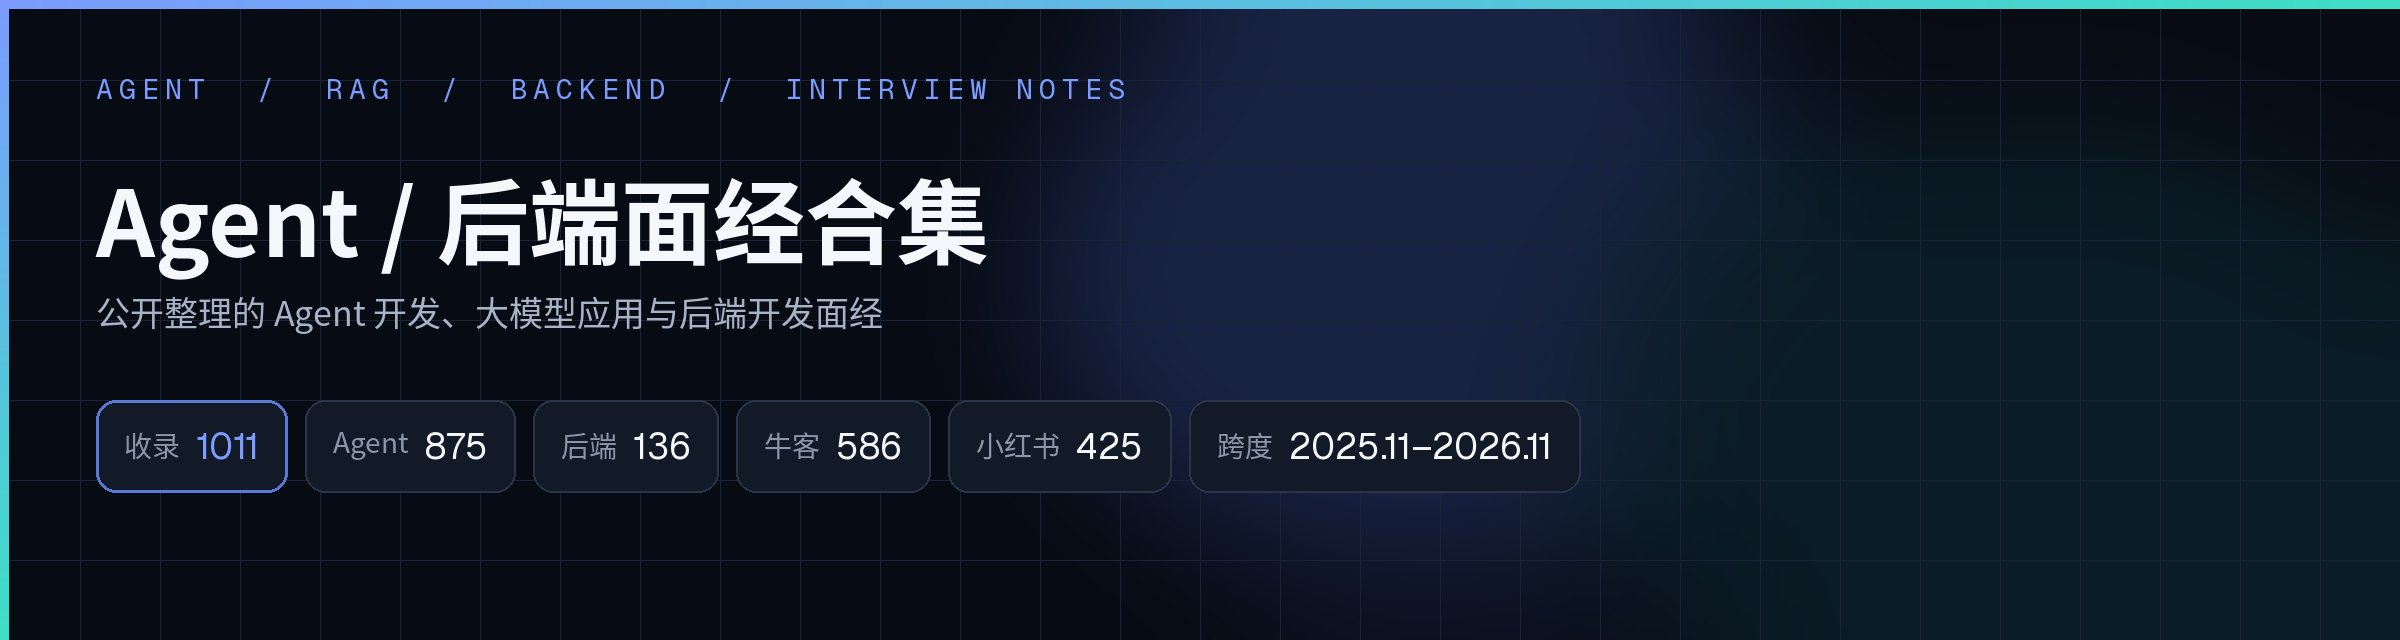
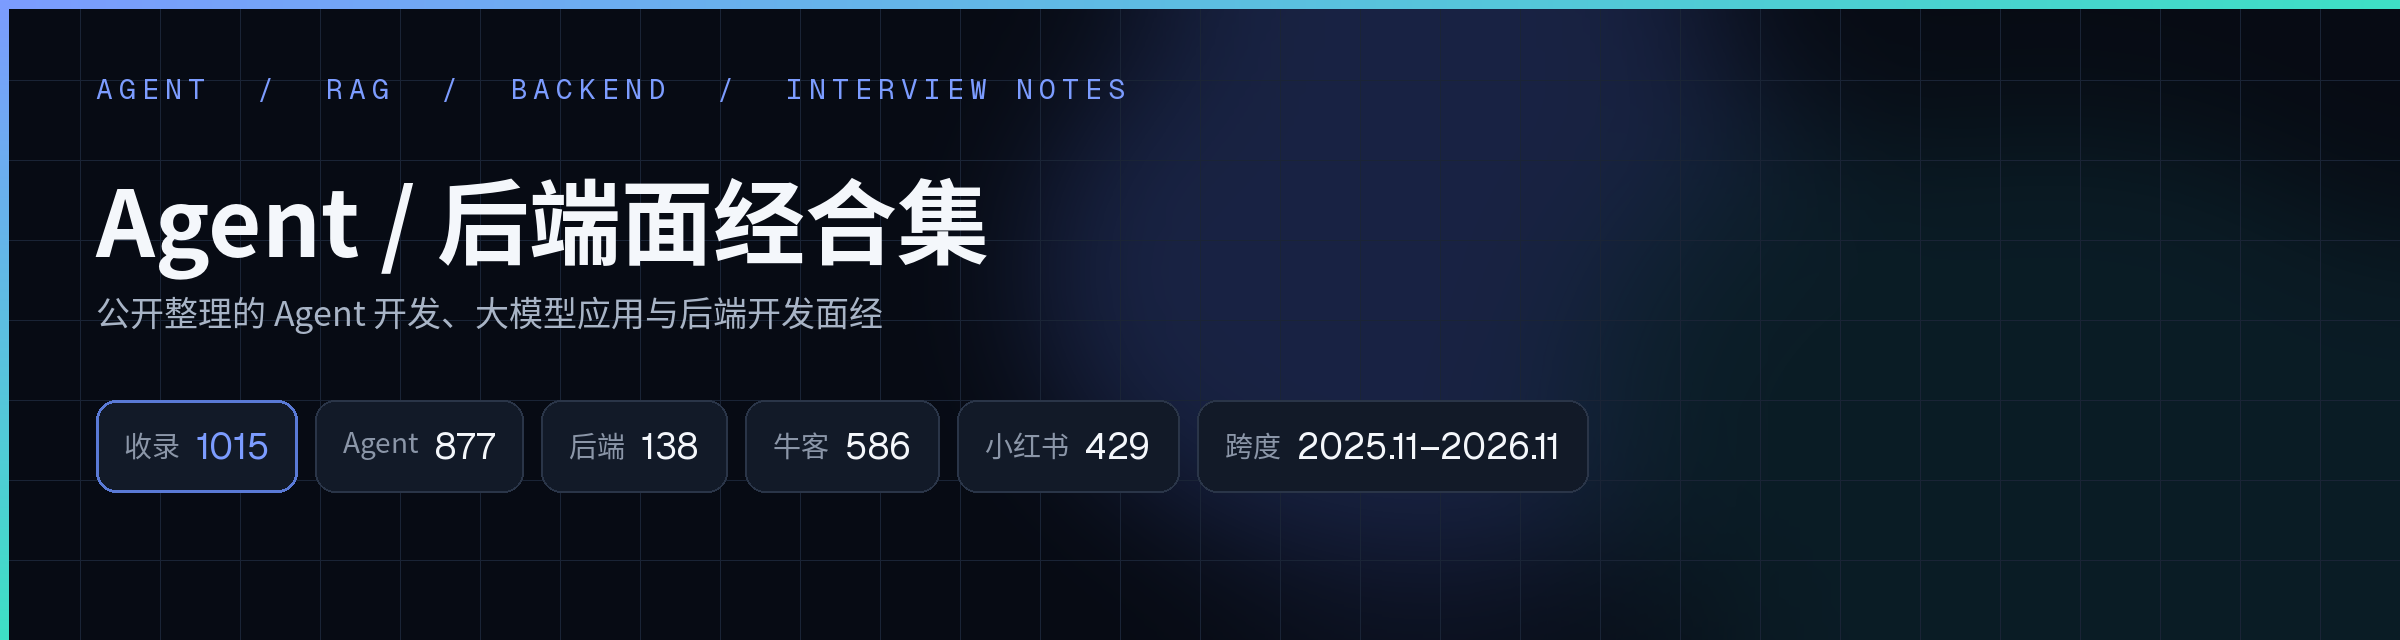
add 4 Xiaohongshu 面经 from follow-up of already collected authors (window 2026-11-13 to 2026-11-25)
布丁不丁 字节后端日常实习一面、初创AI公司后端业务开发实习；小小眠羊 上汽智能座舱 AI应用开发；aevon 上海某初创 Agent开发技术面（局部）。

Changed region(s): [[0.0938, 0.625, 0.6562, 0.75]]

diff --git a/agent/2026-11-19-上海某初创-Agent开发-技术面.md b/agent/2026-11-19-上海某初创-Agent开发-技术面.md
@@ -1,0 +1,61 @@
+# 上海某初创 Agent开发技术面（局部）
+
+> 上海某初创 · Agent开发 · 招聘类型未注明 · 技术面 · 结果未注明 · 详情页显示「6天前」，报告按当天 2026-11-25 换算为 2026-11-19，这是相对日期换算，不是详情页上的月日原发日期，也不是面试日期；记为 2026-11-19，落在本次回访窗口 2026-11-13 至 2026-11-25（用户要求把已收录作者整理到当日） · 作者 aevon · 来源：[小红书](https://www.xiaohongshu.com/explore/6afdd112000000002b03b4d6)
+
+原帖标题按搜集报告为上海某初创 agent 开发技术面。公司按标题记为上海某初创，不改成具名公司，也不与仓库中其他「上海某初创」或同作者天津某初创篇合并。岗位按报告记为 Agent 开发，招聘类型未注明，轮次按标题记为技术面，不编造一面或二面。发帖日按页面「6天前」、报告当天 2026-11-25 换算为 2026-11-19，已如实标明是换算结果。结果未见，不猜测。题目在 3 张图里，第 2 张加载为空白未读到，缺第 11 到第 14 题及第 22 题之后，按局部收录。
+
+## 速览
+
+- **重点**：上海某初创 Agent 开发技术面。下面只整理搜集报告里已经可见的题意摘要，不是逐字原文，也不补答案。可见开场与简历核对：自我介绍、简历作品、最近项目、Agent 工作台动机（截断）、对 Claude Code 和 Codex 框架的了解、记忆系统、Claude 订阅或接口、使用环境和搭法，以及支付、网络、电脑环境（截断）。另可见第 15 到第 22 题：三个 Skill 分别是什么、Skill 架构和文件夹里有什么、四块怎么设计、第一份 Skill 的名字与目录组织、SKILL.md 和工作流，以及这套工作台相对直接使用 Codex / Claude Code 的产品价值（截断）。第 11 到第 14 题和第 22 题之后未见。本篇为局部。不与同作者天津某初创篇合并。
+- **难度**：上海某初创 Agent 开发技术面。发帖日期依据：详情页显示「6天前」，报告按当天 2026-11-25 换算为 2026-11-19，这是相对日期换算，不是详情页上的月日原发日期。本篇为局部：第 2 张图空白未读，缺第 11 到第 14 题及第 22 题之后。
+- **题量**：仅按报告可见摘要整理，不把未见细节补成题目，也不声称全题已核。本篇为局部。
+
+## 面经正文
+
+以下只整理搜集报告中已经看到的题意，不是逐字原文，也不补答案。缺题和截断后的内容不补。本篇为局部。
+
+### 技术面
+
+题目在 3 张图里，按局部收录：第 2 张图加载为空白，未读到；第 1 张为封面；第 3 张只读到第 15 到第 22 题；另一张读到第 1 到第 10 题。第 11 到第 14 题以及第 22 题之后缺失。第 4 题和第 10 题、第 22 题在截断处结束。下面只整理已列出的题意，不把缺题和截断后的内容补出来，也不补答案。报告未写明是第几面，按标题记为技术面。
+
+简单做下自我介绍。
+
+可以看一下你简历里的作品吗。
+
+你最近最新在开发的项目是哪一个。
+
+你做这个 Agent 工作台，是自己想做还是？报告写到此处截断，这里不补。报告未还原项目全称，也不补。
+
+你对 Claude Code、Codex 它们本身的框架了解多少。
+
+你说的记忆系统，是指 Claude 它自己原生的那个记忆吗。
+
+你现在用 Claude 是走订阅，还是自己接的接口。
+
+你是怎么搞定这个 Claude（使用环境）的。
+
+那你现在在这套方案是怎么搭的？完整讲一讲。
+
+分三块讲：支付怎么解决的、网络环境怎么解决的、电脑本身环境（时区、封环境…报告写到此处截断。第 11 到第 14 题缺失，这里不补。
+
+这三个 Skill 分别是什么？完整说一说。报告序号此处为第 15 题。
+
+一个完整的 Skill，它的架构大概是怎样的。
+
+不是说职责描述，是代码层面的实质：这个文件夹里面有哪几种东西。
+
+面试官讲解 Skill 四模块后追问：你这三个 Skill 的这四块东西分别是怎么设计的。报告未展开面试官所讲四模块的原文，这里不补。
+
+你刚才说有三份 Skill——第一份叫什么名字？架构大概是怎样的。
+
+这第一个 Skill，它的文件夹你是怎么组织架构的。
+
+SKILL.md 是单独一个文件吗？参考资料、脚本、素材库这些模块，你的工作流打算怎么组织。
+
+你这个工作台，和我直接用 Codex / Claude Code 配上你这几个 Skill 相比，产品价值差异在哪里？怎么证明你做的这个应用…报告写到此处截断，第 22 题之后未见，这里不补。
+
+以上只保留报告已列出的题意，不补第 11 到第 14 题，也不补被截断的后续。已读材料未见最终录用或淘汰结论，结果未注明。
+
+---
+
+收录于 2026-11-25 · 本文为依据搜集报告可见摘要的整理，非正式原文转载。版权归原作者所有，如有侵权请提 Issue 删除。

diff --git a/backend/2026-11-24-字节跳动-后端开发-日常实习-一面.md b/backend/2026-11-24-字节跳动-后端开发-日常实习-一面.md
@@ -1,0 +1,63 @@
+# 字节跳动后端开发日常实习一面
+
+> 字节跳动 · 后端开发（按报告记为后端日常实习；题目含 Agent 项目，不把岗位改成 Agent） · 日常实习 · 一面 · 结果未注明 · 详情页显示「昨天 20:00 浙江」，报告按当天 2026-11-25 换算为 2026-11-24，这是相对日期换算，不是详情页上的月日原发日期，也不是面试日期；记为 2026-11-24，落在本次回访窗口 2026-11-13 至 2026-11-25（用户要求把已收录作者整理到当日）。正文写面试日 2026.11.23，按作者所写记录，不把面试日当成发帖日 · 作者 布丁不丁 · 来源：[小红书](https://www.xiaohongshu.com/explore/6b057c4b0000000026026ce5)
+
+原帖标题按搜集报告为字节跳动后端日常实习一面。岗位按报告记为后端日常实习。题目含 Agent 项目，不把岗位改成 Agent。发帖日按页面「昨天 20:00 浙江」、报告当天 2026-11-25 换算为 2026-11-24，已如实标明是换算结果。正文写面试日 2026.11.23，按作者所写记录。结果未见，不猜测。同作者本批另有初创 AI 公司篇，为不同原帖，不合并。
+
+## 速览
+
+- **重点**：字节跳动后端开发日常实习一面。岗位按报告记为后端。下面只整理搜集报告里已经可见的题意摘要，不是逐字原文，也不补答案。题目可见 Agent 项目、Harness、Skill、上下文，以及 MySQL、MVCC、HashMap、ConcurrentHashMap、JVM 垃圾回收、锁、TCP、进程线程，还有手撕编辑距离和反问。题目涉及 Agent，不把岗位改成 Agent。本帖只见一面这一场，不拆文件，不与同作者或其他字节篇合并。
+- **难度**：字节跳动后端开发日常实习一面。发帖日期依据：详情页显示「昨天 20:00 浙江」，报告按当天 2026-11-25 换算为 2026-11-24，这是相对日期换算，不是详情页上的月日原发日期。正文写面试日 2026.11.23，按作者所写记录。
+- **题量**：仅按报告可见摘要整理，不把未见细节补成题目，也不声称全题已核。
+
+## 面经正文
+
+以下只整理搜集报告中已经看到的题意，不是逐字原文，也不补答案或手撕解法。
+
+### 一面
+
+正文写面试日期为 2026.11.23，这是作者写明的面试日，不是发帖日。已读材料未见录用或淘汰结论。下面只整理已列出的题意，不补答案，也不补手撕解法。
+
+自我介绍。
+
+实习。报告未展开具体追问，这里不补。
+
+介绍 Agent 项目难点。报告未还原项目名，这里不补。题目涉及 Agent 项目，不把岗位改成 Agent。
+
+介绍一下完整的 Agent Loop。
+
+你是如何考虑设计 Harness 的？现在还能有哪些方面可以优化。
+
+Skill 了解哪些。
+
+如果用户需求比较模糊，Agent 怎么处理。
+
+上下文方面是怎么设计的。
+
+MySQL 事务隔离级别。
+
+MVCC 的实现原理。
+
+HashMap 底层原理，为什么用红黑树。
+
+ConcurrentHashMap 的实现原理。
+
+介绍一下 JVM 的垃圾回收机制。
+
+ReentrantLock 和 synchronized 之间的区别。
+
+TCP 三次握手的过程，没有第三次握手会出现什么问题。
+
+介绍一下进程和线程。
+
+读研方面，能实习多久。
+
+手撕：编辑距离。这里只保留题意，不补解法。
+
+反问：部门业务，面试表现。报告未展开更多反问内容，这里不补。
+
+以上只保留报告已列出的题意，不补手撕解法。已读材料未见最终录用或淘汰结论，结果未注明。
+
+---
+
+收录于 2026-11-25 · 本文为依据搜集报告可见摘要的整理，非正式原文转载。版权归原作者所有，如有侵权请提 Issue 删除。

diff --git a/agent/2026-11-19-上汽-AI应用开发.md b/agent/2026-11-19-上汽-AI应用开发.md
@@ -1,0 +1,45 @@
+# 上汽智能座舱 AI应用开发面经
+
+> 上汽（智能座舱） · AI应用开发（按报告记为 AI 应用/Agent 开发） · 招聘类型未注明 · 轮次未注明 · 结果：挂（作者自述刚面完就挂） · 详情页显示「6天前」，报告按当天 2026-11-25 换算为 2026-11-19，这是相对日期换算，不是详情页上的月日原发日期，也不是面试日期；记为 2026-11-19，落在本次回访窗口 2026-11-13 至 2026-11-25（用户要求把已收录作者整理到当日） · 作者 小小眠羊 · 来源：[小红书](https://www.xiaohongshu.com/explore/6afd4aa500000000230104b1)
+
+原帖标题按搜集报告为上汽智能座舱面经。公司按标题记为上汽，报告写岗位为 AI 应用/Agent 开发（上汽智能座舱）。题目可见 Agent 实现、提示词、Harness、Agent Loop 和座舱场景，属于 Agent/大模型应用范围，按此收录，不改 held。招聘类型和轮次在已读材料里未见，不补推。发帖日按页面「6天前」、报告当天 2026-11-25 换算为 2026-11-19，已如实标明是换算结果。结果按作者自述记为挂。不与同作者已收巨一科技篇合并。
+
+## 速览
+
+- **重点**：上汽智能座舱 AI 应用开发面经。岗位按报告记为 AI 应用/Agent 开发。下面只整理搜集报告里已经可见的题意摘要，不是逐字原文，也不补答案。题目可见基模与数据、Agent 实现、幂等和库存冲突、车企实习是否接触车辆功能、智能座舱场景链路、语音到车控，以及提示词、微调、Harness 和 Agent Loop 的层次关系。作者自述刚面完就挂。轮次未注明，不编造。不与同作者其他篇合并。
+- **难度**：上汽智能座舱 AI 应用开发。发帖日期依据：详情页显示「6天前」，报告按当天 2026-11-25 换算为 2026-11-19，这是相对日期换算，不是详情页上的月日原发日期。
+- **题量**：仅按报告可见摘要整理，不把未见细节补成题目，也不声称全题已核。
+
+## 面经正文
+
+以下只整理搜集报告中已经看到的题意，不是逐字原文，也不补答案。轮次未注明，不编造。
+
+### 面经
+
+已读材料没有写出实际面试日期，也没有写明是第几面。结果按作者自述为刚面完就挂。下面只整理已列出的题意，不补答案。
+
+问项目基模和数据怎么来的。报告未还原项目名，这里不补。
+
+问项目 Agent 的实现。
+
+幂等。报告写项目里有，未再展开题面，这里不补更多细节。
+
+项目场景题：用户 A 和 B 同时想买同一物料，库存冲突怎么处理？同一用户想买两批完全一样的物料，幂等键怎么设计才不会把第二单当重复请求挡掉？整个方案听起来比较重，有没有更简单的实现。
+
+在车企实习主要做业务系统 AI 化，有没有接触过车辆功能本身相关工作。
+
+平时对智能座舱、智能驾驶等车载方向有没有了解。
+
+「检测到后排孩子睡着，自动调空调、氛围灯、压低音量」这个座舱场景，完整实现链路是怎样的。
+
+从用户语音入口开始触发，这个语音场景会经过哪些完整处理环节，最后落到车控动作。
+
+基模写提示词跟微调有什么区别以及什么关系。
+
+提示词工程、Harness、Agent Loop 的技术理解以及层次关系。
+
+以上只保留报告已列出的题意。结果按作者自述记为挂。
+
+---
+
+收录于 2026-11-25 · 本文为依据搜集报告可见摘要的整理，非正式原文转载。版权归原作者所有，如有侵权请提 Issue 删除。

diff --git a/backend/2026-11-20-初创AI公司-后端业务开发-实习.md b/backend/2026-11-20-初创AI公司-后端业务开发-实习.md
@@ -1,0 +1,51 @@
+# 初创AI公司后端业务开发实习面经
+
+> 初创AI公司 · 后端业务开发 · 实习 · 轮次未注明 · 结果未注明 · 详情页显示「5天前」，报告按当天 2026-11-25 换算为 2026-11-20，这是相对日期换算，不是详情页上的月日原发日期，也不是面试日期；记为 2026-11-20，落在本次回访窗口 2026-11-13 至 2026-11-25（用户要求把已收录作者整理到当日） · 作者 布丁不丁 · 来源：[小红书](https://www.xiaohongshu.com/explore/6affb298000000002b00744d)
+
+原帖标题按搜集报告为初创 ai 公司后端业务开发面经。公司按标题记为初创 AI 公司，不改成具名公司。岗位按报告记为后端业务开发，招聘类型记为实习。轮次在已读材料里未见，不编造一面或二面。发帖日按页面「5天前」、报告当天 2026-11-25 换算为 2026-11-20，已如实标明是换算结果。结果未见，不猜测。同作者本批另有字节篇，为不同原帖，不合并。
+
+## 速览
+
+- **重点**：初创 AI 公司后端业务开发实习面经。岗位按报告记为后端业务开发。下面只整理搜集报告里已经可见的题意摘要，不是逐字原文，也不补答案。题目可见 Agent 调用外部接口超时与重复执行、多服务失败、并发限流、出错排查、RAG 效果评估，以及接口耗时、MySQL 与 Redis 一致性、事务和 AI 工具使用。轮次未注明，不编造。不与同作者字节篇或其他初创公司篇合并。
+- **难度**：初创 AI 公司后端业务开发实习。发帖日期依据：详情页显示「5天前」，报告按当天 2026-11-25 换算为 2026-11-20，这是相对日期换算，不是详情页上的月日原发日期。
+- **题量**：仅按报告可见摘要整理，不把未见细节补成题目，也不声称全题已核。
+
+## 面经正文
+
+以下只整理搜集报告中已经看到的题意，不是逐字原文，也不补答案。轮次未注明，不编造。
+
+### 面经
+
+已读材料没有写出实际面试日期，也没有写明是第几面。下面只整理已列出的题意，不补答案，也不编造轮次。
+
+先介绍你做过的项目。报告未还原项目名，这里不补。
+
+Agent 执行任务调用外部接口一直没返回怎么处理。
+
+Agent 调用某工具成功，但网络超时没收到结果，重新调用可能重复操作，怎么解决。
+
+Agent 需连续调用多个外部服务，其中一个失败，是直接终止还是继续。
+
+100 个用户同时使用 Agent，每人多次触发模型调用，怎么设计并发控制和限流。
+
+Agent 某次回答出错，怎么定位排查。
+
+怎么评估一个 RAG 系统的实际效果。
+
+线上接口响应时间从 100ms 变成 3s，按什么顺序排查。
+
+怎么保证 MySQL 和 Redis 之间数据一致性。
+
+MySQL 中的事务你都了解哪些。
+
+一个接口同时查 MySQL、Redis 和第三方服务，如何降低整体响应时间。
+
+平时怎么使用 AI 工具。
+
+你平时如何学习行业最新知识。
+
+以上只保留报告已列出的题意。已读材料未见最终录用或淘汰结论，结果未注明。
+
+---
+
+收录于 2026-11-25 · 本文为依据搜集报告可见摘要的整理，非正式原文转载。版权归原作者所有，如有侵权请提 Issue 删除。
